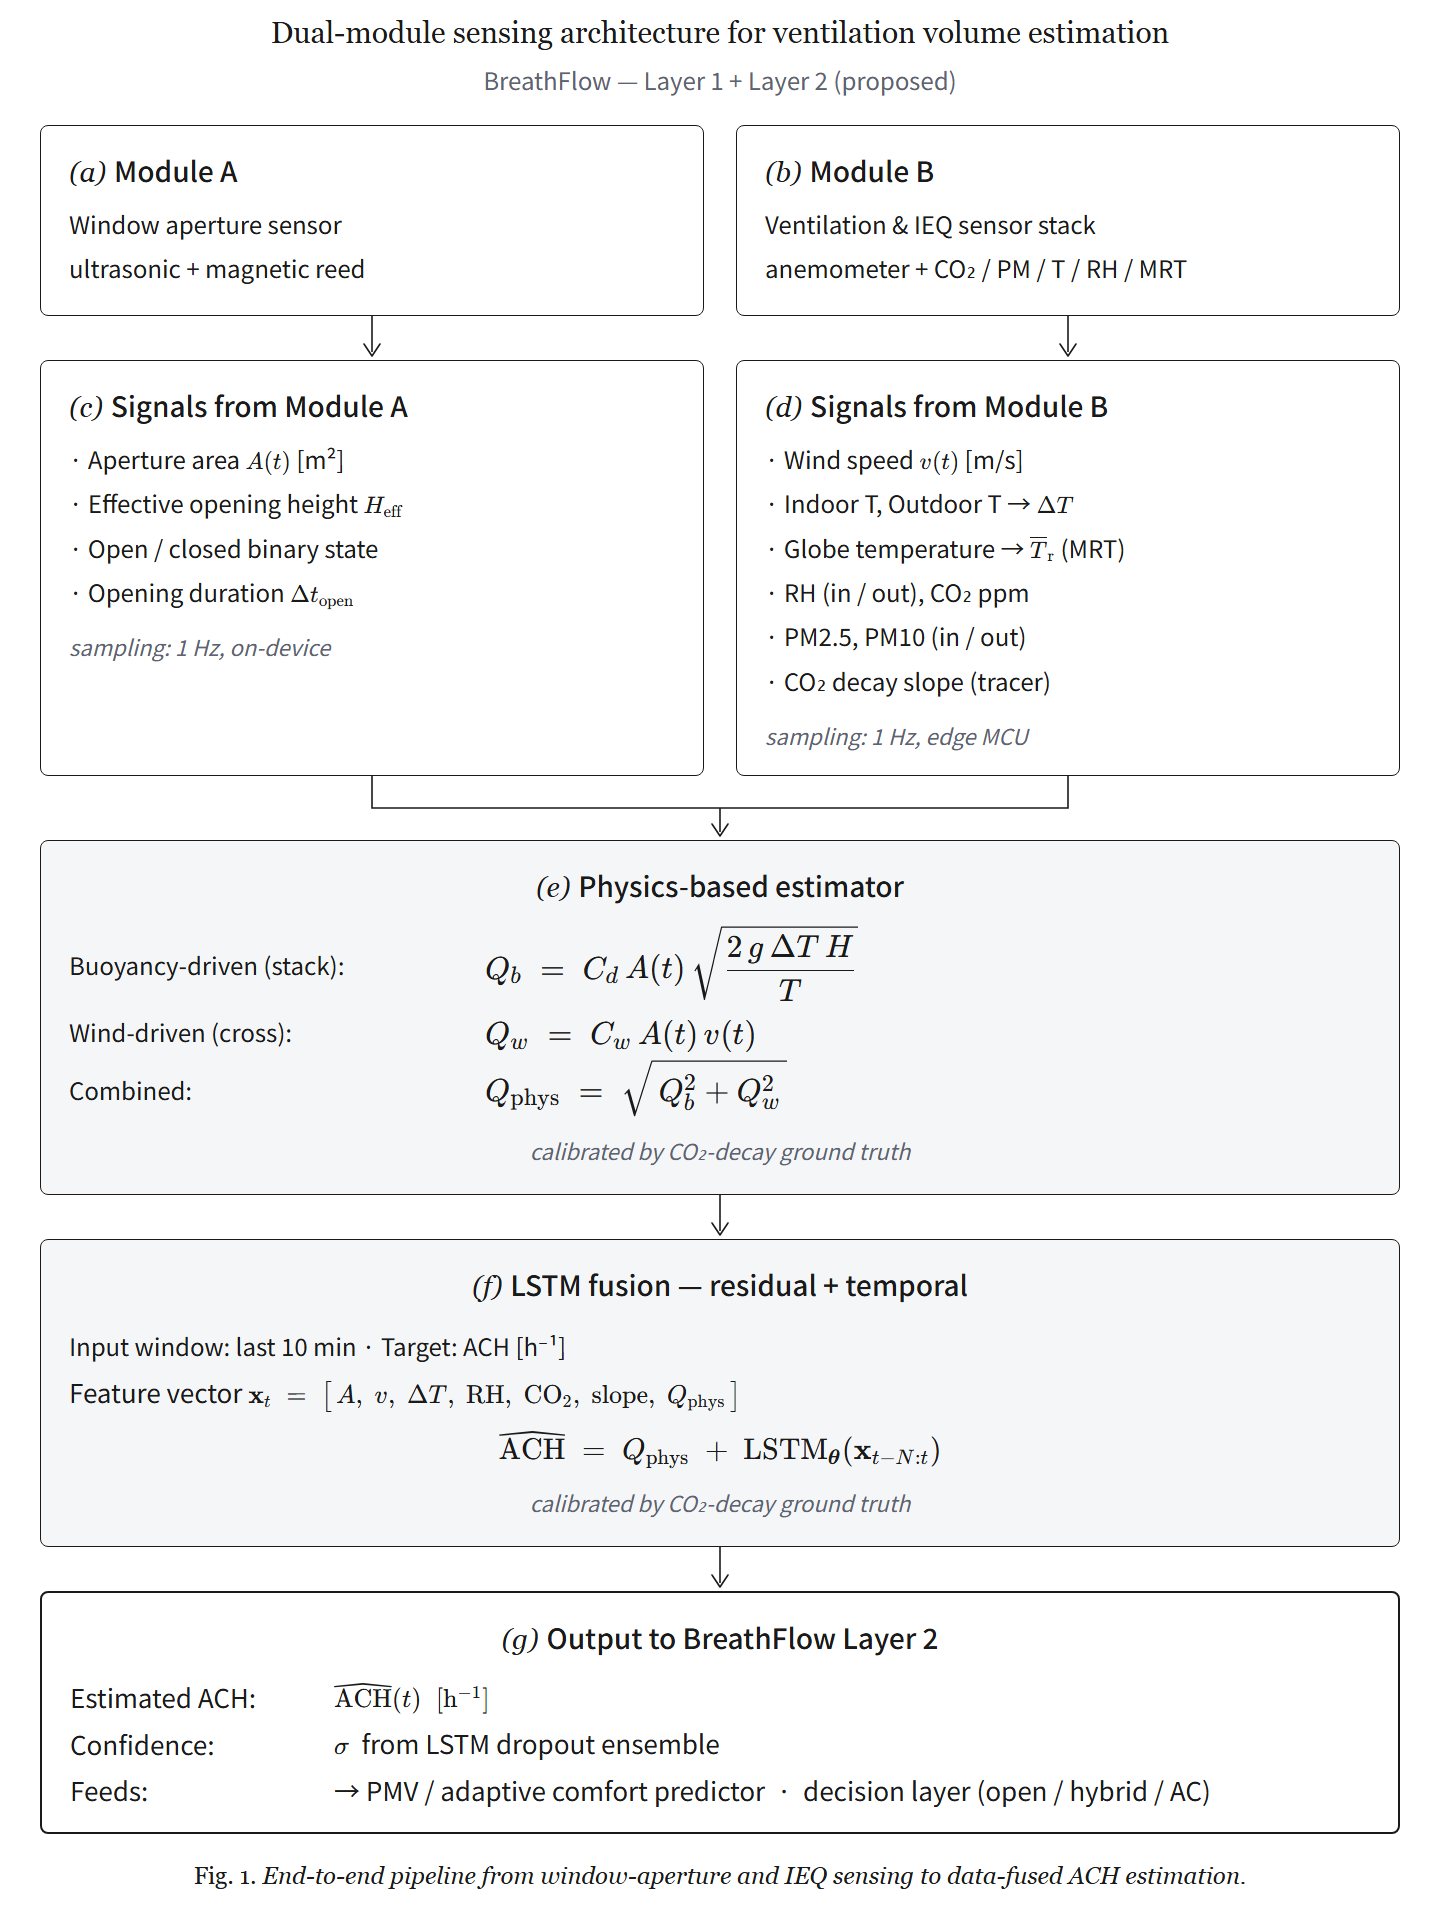
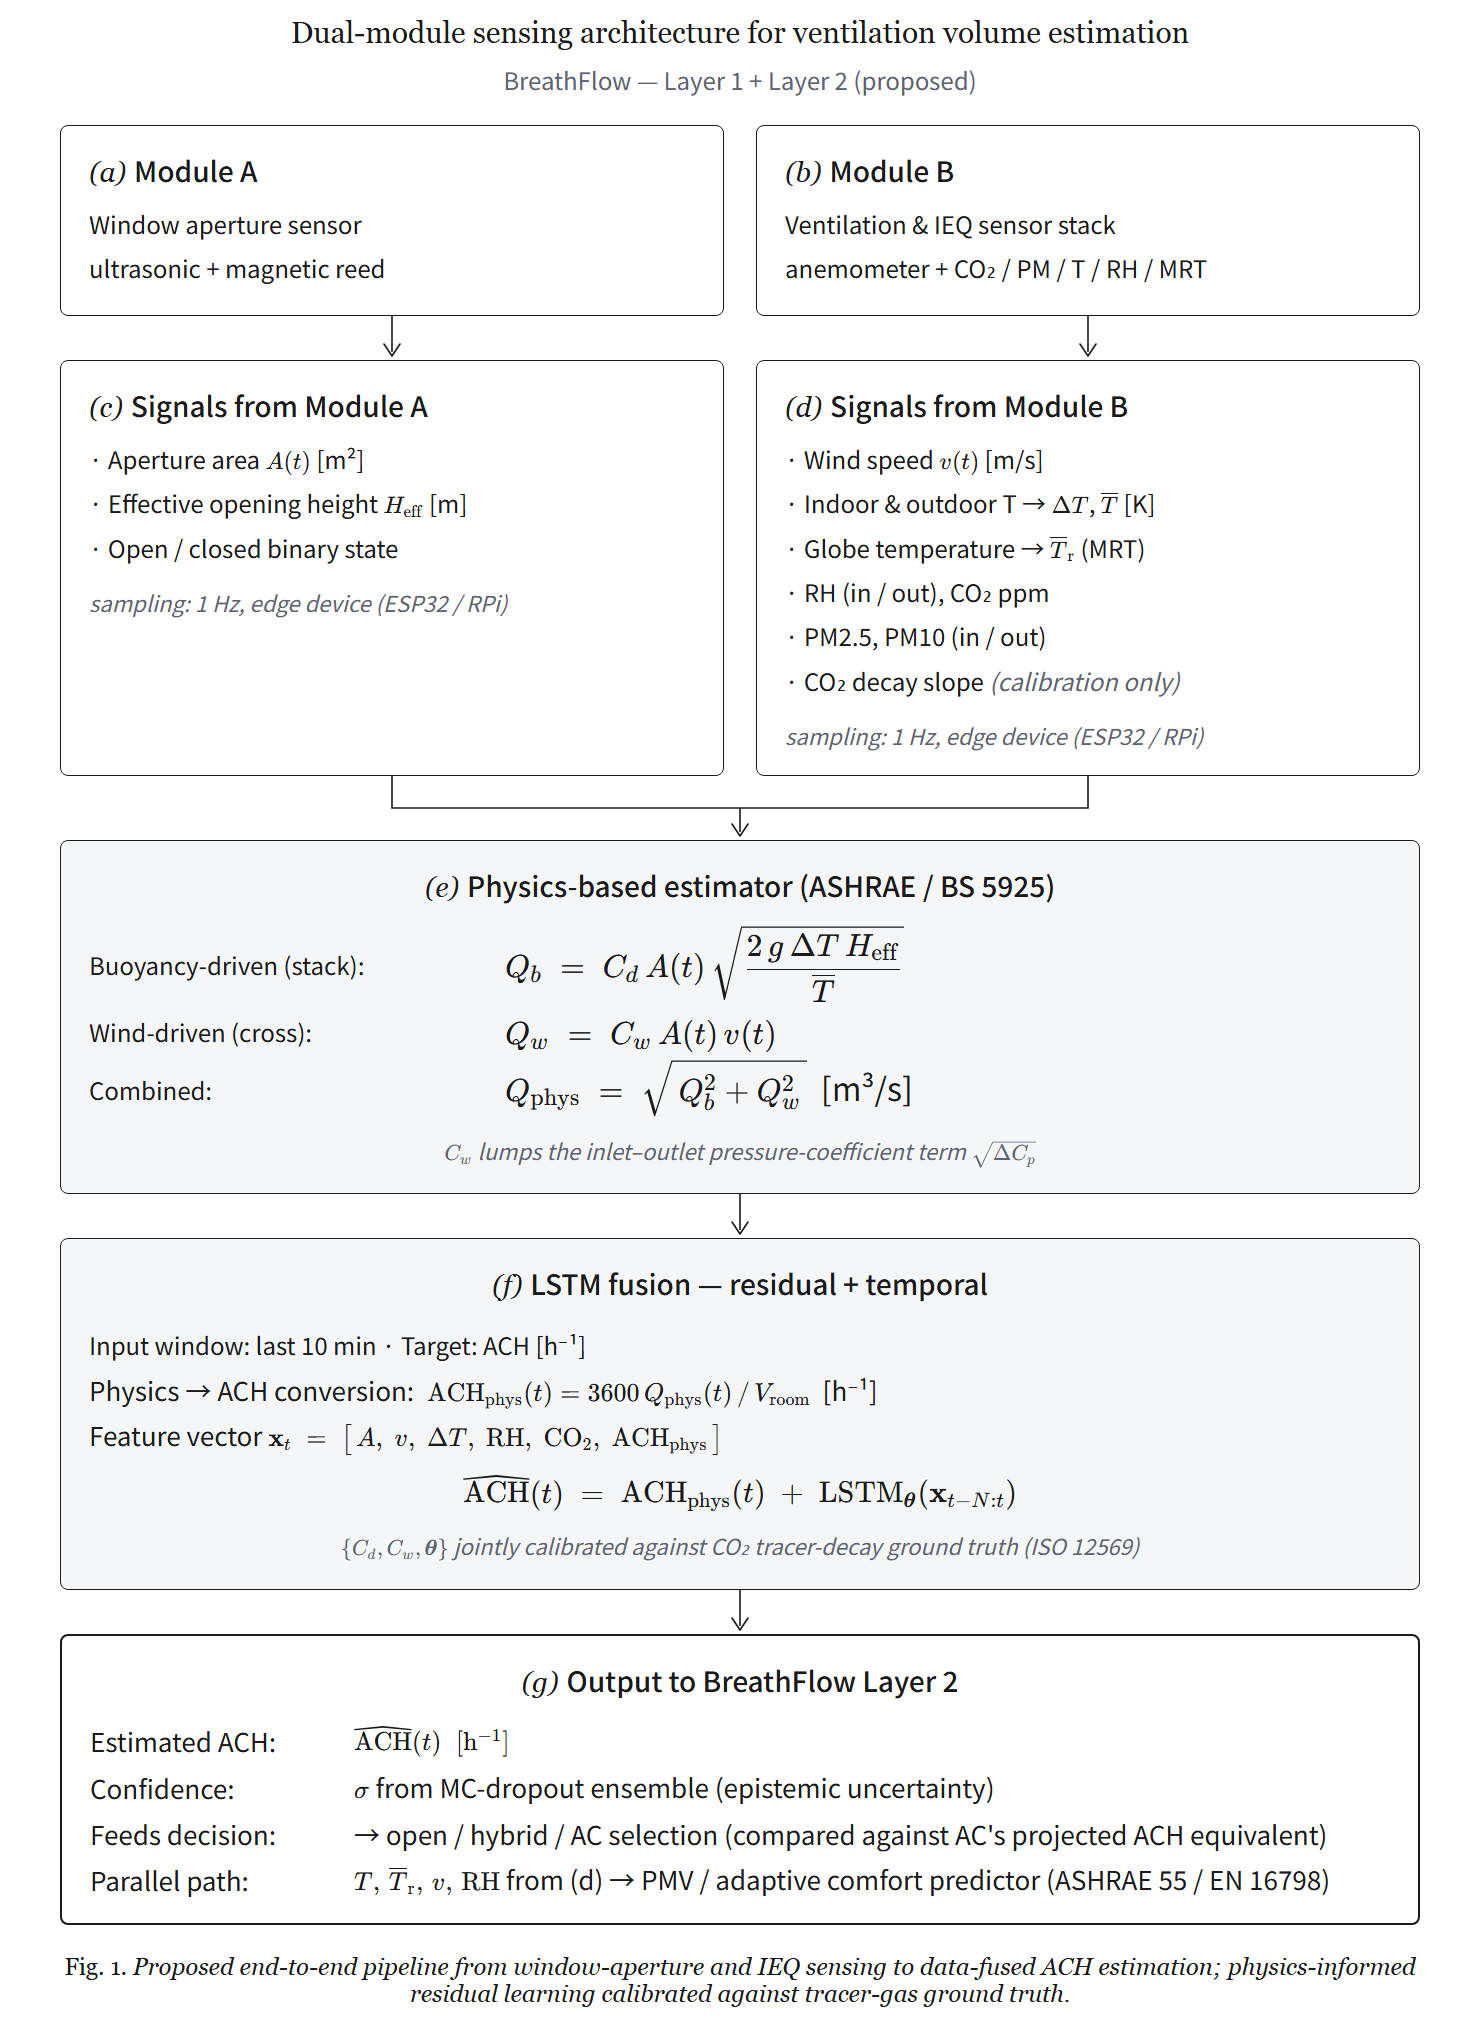
Tighten BreathFlow architecture math; broaden deployment to ESP32 / RPi
- Fix dimensional inconsistency in residual fusion: introduce
  ACH_phys = 3600 Q_phys / V_room so ÂCH = ACH_phys + LSTM(...) is unit-correct.
- Stack formula: T → T̄ (mean absolute temperature, K); H → H_eff for
  consistency with Tier 2 signals; attribute to ASHRAE / BS 5925.
- Drop CO₂ decay slope from LSTM feature vector to eliminate leakage with
  the tracer-decay ground truth; mark slope as calibration-only signal.
- Annotate C_w as lumping the inlet–outlet ΔCp term.
- Consolidate calibration into one footnote: {C_d, C_w, θ} jointly fit
  against ISO 12569 CO₂ tracer-decay ground truth.
- Make PMV path explicit and parallel: T, T̄_r, v, RH from (d) feed
  comfort predictor independently of the ACH loop (ASHRAE 55 / EN 16798).
- Generalize edge runtime label from "edge MCU" to "edge device (ESP32 / RPi)";
  description now states Arduino is the data-collection node while inference
  will migrate to ESP32 (TinyML) or Raspberry Pi.

Changed region(s): [[0.0312, 0.0, 0.9688, 1.0], [0.0312, 0.0625, 0.3438, 0.3438], [0.0312, 0.4688, 0.25, 0.5938]]

diff --git a/Image/Ventilation/dual_module_sensing_architecture_latex.html b/Image/Ventilation/dual_module_sensing_architecture_latex.html
@@ -101,20 +101,19 @@
     <div class="block">
       <div class="title"><span class="lbl">(c)</span>Signals from Module A</div>
       <div class="item">·  Aperture area  $A(t)$  [m²]</div>
-      <div class="item">·  Effective opening height  $H_{\mathrm{eff}}$</div>
+      <div class="item">·  Effective opening height  $H_{\mathrm{eff}}$  [m]</div>
       <div class="item">·  Open / closed binary state</div>
-      <div class="item">·  Opening duration  $\Delta t_{\mathrm{open}}$</div>
-      <div class="sampling">sampling: 1 Hz, on-device</div>
+      <div class="sampling">sampling: 1 Hz, edge device (ESP32 / RPi)</div>
     </div>
     <div class="block">
       <div class="title"><span class="lbl">(d)</span>Signals from Module B</div>
       <div class="item">·  Wind speed  $v(t)$  [m/s]</div>
-      <div class="item">·  Indoor T, Outdoor T  →  $\Delta T$</div>
+      <div class="item">·  Indoor &amp; outdoor T  →  $\Delta T$,  $\overline{T}$ [K]</div>
       <div class="item">·  Globe temperature  →  $\overline{T}_{\mathrm{r}}$ (MRT)</div>
       <div class="item">·  RH (in / out),  CO₂ ppm</div>
       <div class="item">·  PM2.5, PM10 (in / out)</div>
-      <div class="item">·  CO₂ decay slope (tracer)</div>
-      <div class="sampling">sampling: 1 Hz, edge MCU</div>
+      <div class="item">·  CO₂ decay slope <span style="font-style:italic;color:var(--text-soft)">(calibration only)</span></div>
+      <div class="sampling">sampling: 1 Hz, edge device (ESP32 / RPi)</div>
     </div>
   </div>
 
@@ -126,16 +125,16 @@
 
   <!-- Tier 3: Physics -->
   <div class="block compute">
-    <div class="title"><span class="lbl">(e)</span>Physics-based estimator</div>
+    <div class="title"><span class="lbl">(e)</span>Physics-based estimator (ASHRAE / BS 5925)</div>
     <div class="fgrid">
       <div class="flabel">Buoyancy-driven (stack):</div>
-      <div>$\displaystyle Q_{b} \;=\; C_{d}\, A(t)\, \sqrt{\frac{2\,g\,\Delta T\,H}{T}}$</div>
+      <div>$\displaystyle Q_{b} \;=\; C_{d}\, A(t)\, \sqrt{\frac{2\,g\,\Delta T\, H_{\mathrm{eff}}}{\overline{T}}}$</div>
       <div class="flabel">Wind-driven (cross):</div>
       <div>$\displaystyle Q_{w} \;=\; C_{w}\, A(t)\, v(t)$</div>
       <div class="flabel">Combined:</div>
-      <div>$\displaystyle Q_{\mathrm{phys}} \;=\; \sqrt{\, Q_{b}^{2} + Q_{w}^{2}\,}$</div>
+      <div>$\displaystyle Q_{\mathrm{phys}} \;=\; \sqrt{\, Q_{b}^{2} + Q_{w}^{2}\,}$&nbsp;&nbsp;[m³/s]</div>
     </div>
-    <div class="calib">calibrated by CO₂-decay ground truth</div>
+    <div class="calib">$C_{w}$ lumps the inlet–outlet pressure-coefficient term $\sqrt{\Delta C_{p}}$</div>
   </div>
 
   <div class="arr"><svg width="100%" height="22" viewBox="0 0 680 22" preserveAspectRatio="none">
@@ -147,9 +146,10 @@
   <div class="block compute">
     <div class="title"><span class="lbl">(f)</span>LSTM fusion — residual + temporal</div>
     <div class="item">Input window: last 10 min  ·  Target: ACH&nbsp;[h⁻¹]</div>
-    <div class="lstm-feat">Feature vector $\mathbf{x}_{t} \;=\; \bigl[\, A,\; v,\; \Delta T,\; \mathrm{RH},\; \mathrm{CO}_{2},\; \mathrm{slope},\; Q_{\mathrm{phys}} \,\bigr]$</div>
-    <div class="lstm-main">$\displaystyle \widehat{\mathrm{ACH}} \;=\; Q_{\mathrm{phys}} \;+\; \mathrm{LSTM}_{\boldsymbol{\theta}}\!\left(\mathbf{x}_{t-N:t}\right)$</div>
-    <div class="calib">calibrated by CO₂-decay ground truth</div>
+    <div class="lstm-feat">Physics → ACH conversion: $\;\mathrm{ACH}_{\mathrm{phys}}(t) = 3600\, Q_{\mathrm{phys}}(t)\, /\, V_{\mathrm{room}}$&nbsp;&nbsp;[h⁻¹]</div>
+    <div class="lstm-feat">Feature vector $\mathbf{x}_{t} \;=\; \bigl[\, A,\; v,\; \Delta T,\; \mathrm{RH},\; \mathrm{CO}_{2},\; \mathrm{ACH}_{\mathrm{phys}} \,\bigr]$</div>
+    <div class="lstm-main">$\displaystyle \widehat{\mathrm{ACH}}(t) \;=\; \mathrm{ACH}_{\mathrm{phys}}(t) \;+\; \mathrm{LSTM}_{\boldsymbol{\theta}}\!\left(\mathbf{x}_{t-N:t}\right)$</div>
+    <div class="calib">$\{C_{d}, C_{w}, \boldsymbol{\theta}\}$ jointly calibrated against CO₂ tracer-decay ground truth (ISO 12569)</div>
   </div>
 
   <div class="arr"><svg width="100%" height="22" viewBox="0 0 680 22" preserveAspectRatio="none">
@@ -162,12 +162,13 @@
     <div class="title"><span class="lbl">(g)</span>Output to BreathFlow Layer 2</div>
     <div class="out-grid">
       <span>Estimated ACH:</span><span>$\widehat{\mathrm{ACH}}(t)\;\;[\mathrm{h}^{-1}]$</span>
-      <span>Confidence:</span><span>$\sigma$ &nbsp;from LSTM dropout ensemble</span>
-      <span>Feeds:</span><span>→ PMV / adaptive comfort predictor &nbsp;·&nbsp; decision layer (open / hybrid / AC)</span>
+      <span>Confidence:</span><span>$\sigma$ from MC-dropout ensemble (epistemic uncertainty)</span>
+      <span>Feeds decision:</span><span>→ open / hybrid / AC selection (compared against AC's projected ACH equivalent)</span>
+      <span>Parallel path:</span><span>$T,\,\overline{T}_{\mathrm{r}},\,v,\,\mathrm{RH}$ from (d) → PMV / adaptive comfort predictor (ASHRAE 55 / EN 16798)</span>
     </div>
   </div>
 
-  <div class="caption"><span class="num">Fig. 1.</span> <span class="desc">End-to-end pipeline from window-aperture and IEQ sensing to data-fused ACH estimation.</span></div>
+  <div class="caption"><span class="num">Fig. 1.</span> <span class="desc">Proposed end-to-end pipeline from window-aperture and IEQ sensing to data-fused ACH estimation; physics-informed residual learning calibrated against tracer-gas ground truth.</span></div>
 </div>
 
 <script src="https://cdnjs.cloudflare.com/ajax/libs/KaTeX/0.16.9/katex.min.js"></script>

diff --git a/index.html b/index.html
@@ -391,8 +391,8 @@
           </span>
         </header>
         <p class="fp-desc">
-          <span class="lang-ja">現代の住宅快適性は<strong>常時稼働する空調</strong>に依存し、エネルギーを浪費するうえ住人を判断ループから外している。本プロジェクトは「<strong>窓</strong>」を一級のアクチュエータとして捉え直す試み。<strong>現段階</strong>では <strong>Arduino ベースの 2 つの自作 IoT モジュール</strong>（①窓開度を測る超音波モジュール、②風速・T/RH・CO2・PM・MRT の環境モジュール）を製作し、センシングとデータ収集を進めている。<strong>今後</strong>は ESP32 へ移植し <strong>TinyML で LSTM をオンデバイス実行</strong>、自然換気の換気量 (ACH) と快適性軌跡 (PMV / 適応モデル) を予測したうえで、窓が空調より優位な瞬間に「窓を半開で 10 分」のような<strong>具体的で時限つきのナッジ</strong>をモバイルアプリから配信する <strong>Human-in-the-loop CPS</strong> へ拡張する計画。</span>
-          <span class="lang-en">Modern indoor comfort is dominated by <strong>always-on HVAC</strong> — energy-hungry and removing the resident from the loop. <em>BreathFlow</em> reframes the <strong>window</strong> as a first-class actuator. <strong>Current stage:</strong> two custom <strong>Arduino-based IoT modules</strong> (① ultrasonic window-aperture sensor, ② wind / T-RH / CO2 / PM / MRT stack) — sensing hardware built, data collection in progress. <strong>Planned next:</strong> port to <strong>ESP32 and run an on-device LSTM (TinyML)</strong> that infers achievable air-change rate and forecasts comfort trajectory (PMV / adaptive); a context-aware mobile companion would then deliver a <strong>concrete, time-bound nudge</strong> ("half-open for 10 min") when the window beats the AC, closing the loop into a <strong>human-in-the-loop CPS</strong>.</span>
+          <span class="lang-ja">現代の住宅快適性は<strong>常時稼働する空調</strong>に依存し、エネルギーを浪費するうえ住人を判断ループから外している。本プロジェクトは「<strong>窓</strong>」を一級のアクチュエータとして捉え直す試み。<strong>現段階</strong>では <strong>Arduino をデータ収集ノードとした 2 つの自作 IoT モジュール</strong>（①窓開度を測る超音波モジュール、②風速・T/RH・CO2・PM・MRT の環境モジュール）でセンシングを進めている。<strong>今後</strong>は <strong>ESP32（TinyML）または Raspberry Pi</strong> をエッジ推論ノードに採用し、LSTM 残差融合で自然換気の換気量 (ACH) と快適性軌跡 (PMV / 適応モデル) を推定。窓が空調より優位な瞬間に「窓を半開で 10 分」のような<strong>具体的で時限つきのナッジ</strong>をモバイルアプリから配信する <strong>Human-in-the-loop CPS</strong> へ拡張する計画。</span>
+          <span class="lang-en">Modern indoor comfort is dominated by <strong>always-on HVAC</strong> — energy-hungry and removing the resident from the loop. <em>BreathFlow</em> reframes the <strong>window</strong> as a first-class actuator. <strong>Current stage:</strong> two custom IoT modules with <strong>Arduino acting as the data-collection node</strong> (① ultrasonic window-aperture sensor, ② wind / T-RH / CO2 / PM / MRT stack) — sensing hardware built, data collection in progress. <strong>Planned next:</strong> migrate the inference node to <strong>ESP32 (TinyML) or Raspberry Pi</strong> and run a residual-fusion LSTM that infers achievable air-change rate and forecasts comfort trajectory (PMV / adaptive); a context-aware mobile companion would then deliver a <strong>concrete, time-bound nudge</strong> ("half-open for 10 min") when the window beats the AC, closing the loop into a <strong>human-in-the-loop CPS</strong>.</span>
         </p>
 
         <!-- Hero: full-width system flowchart -->